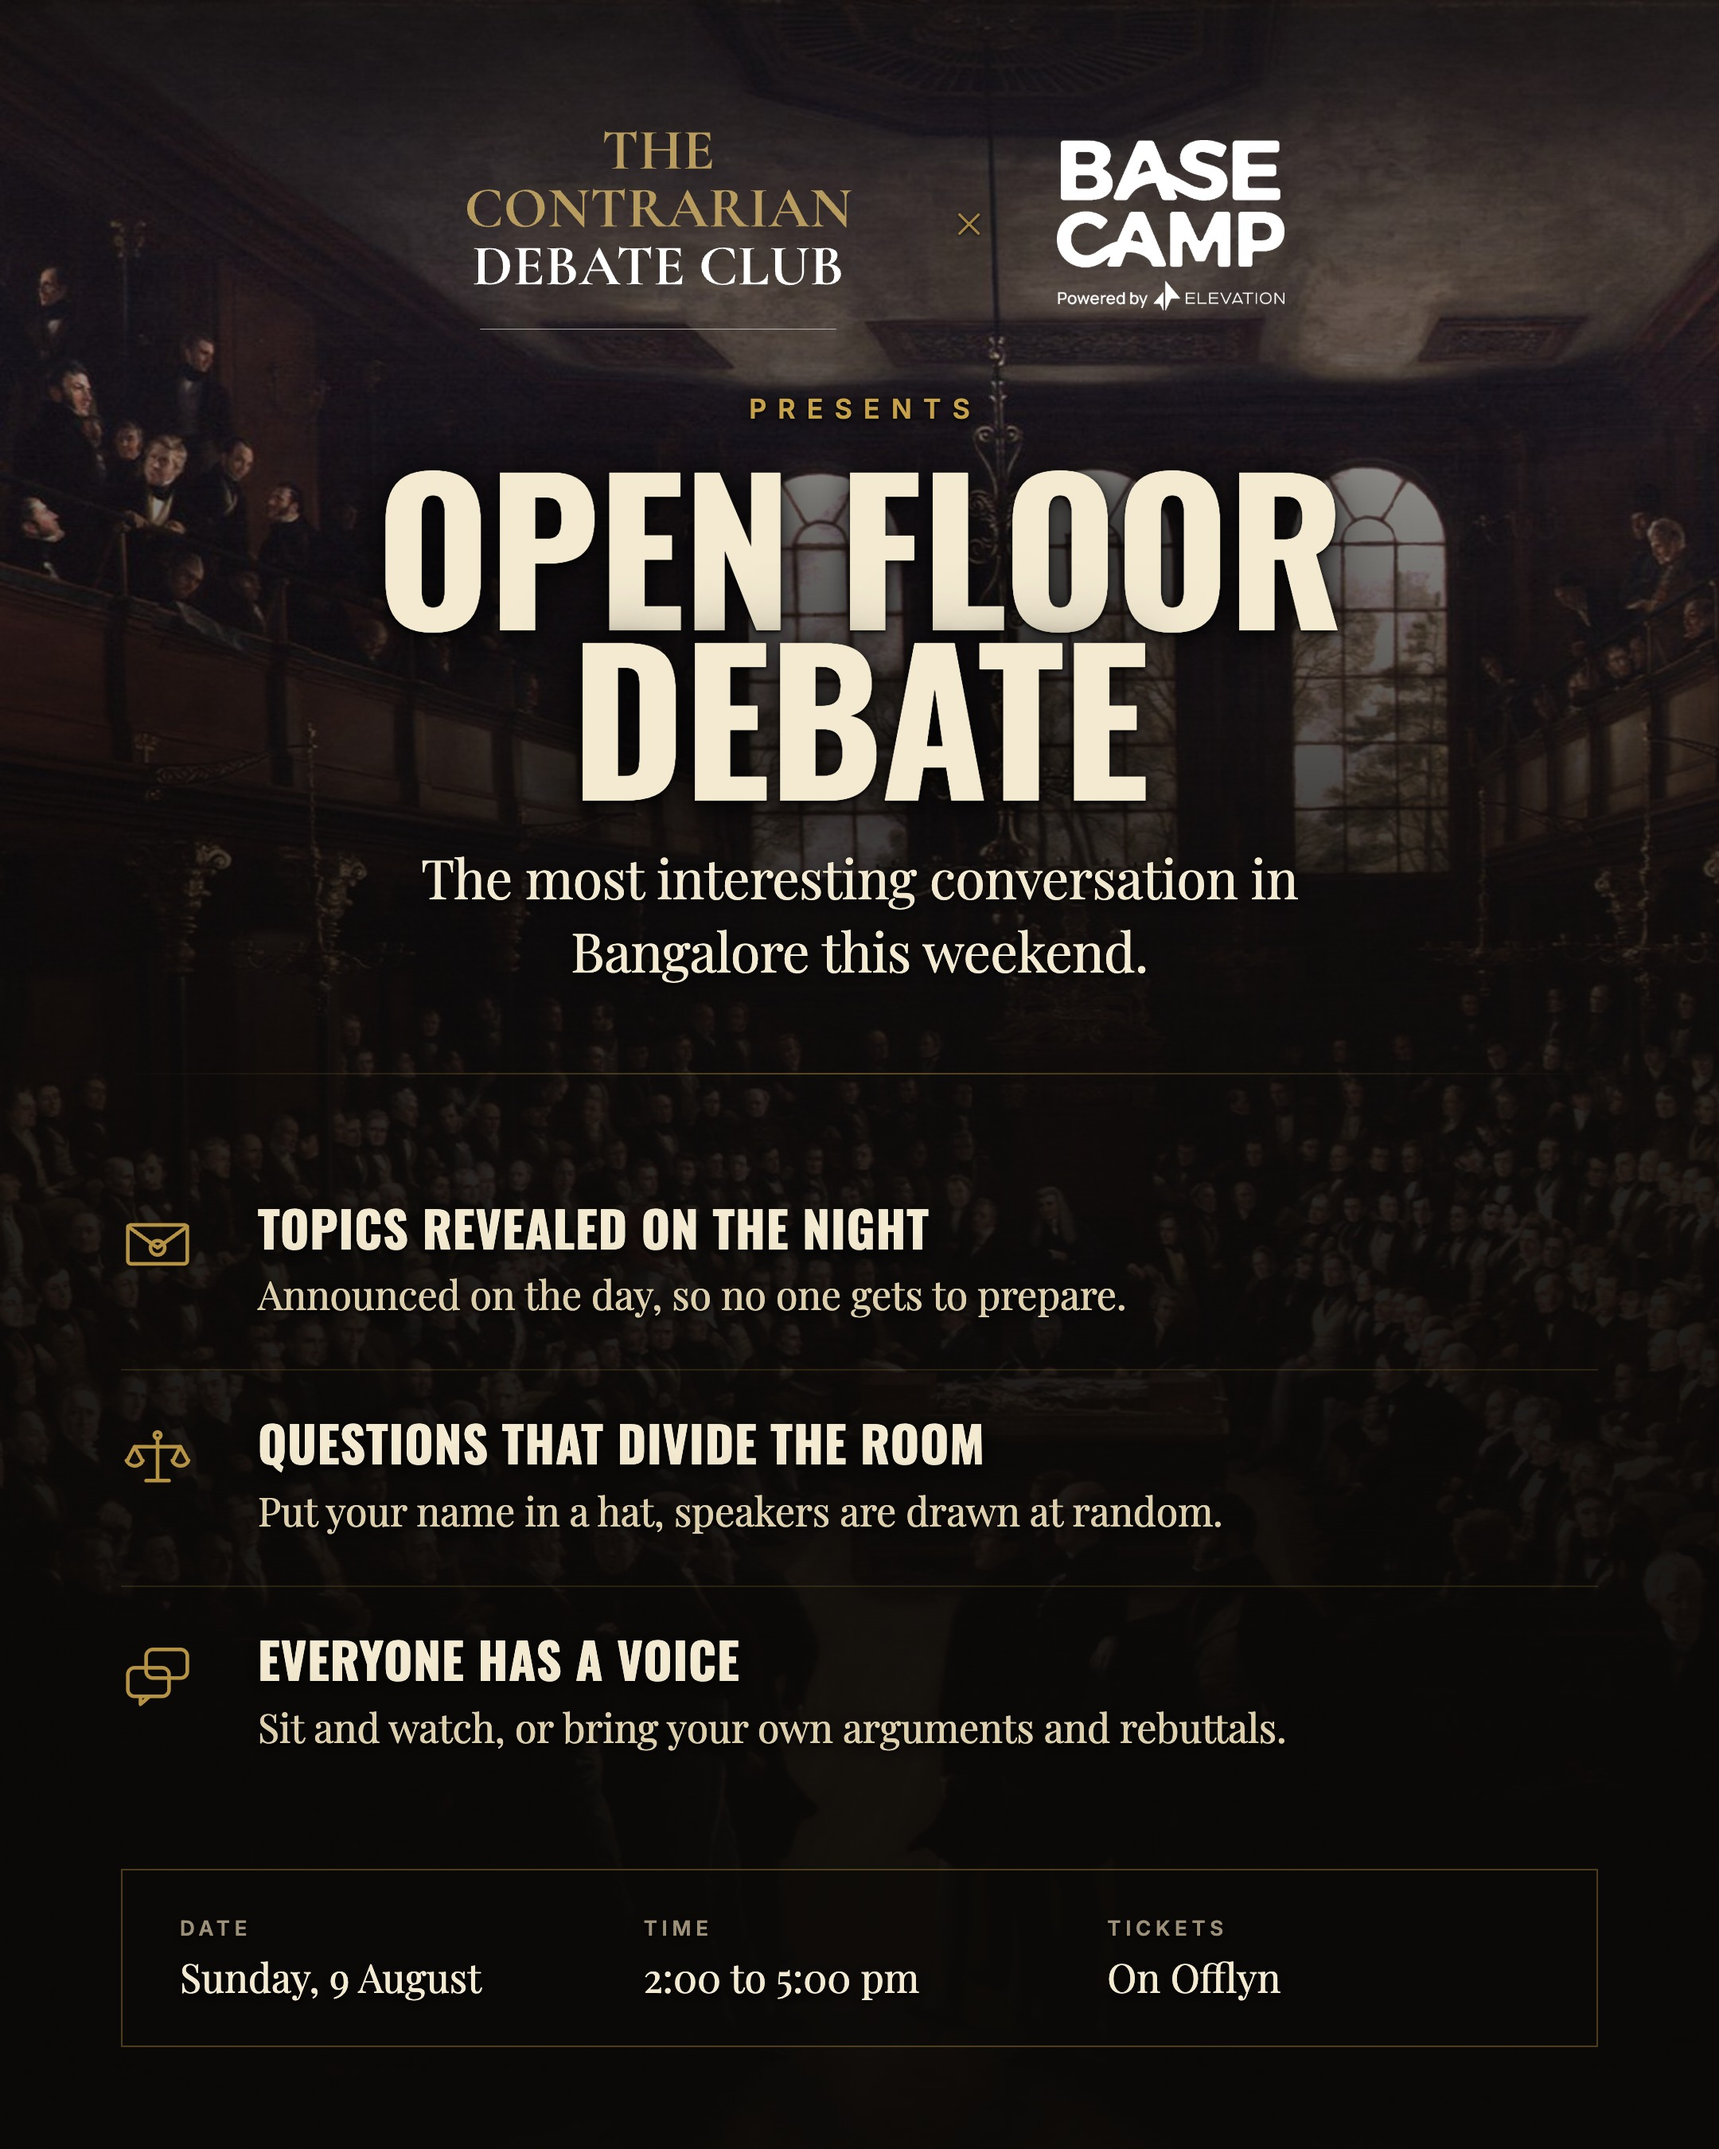
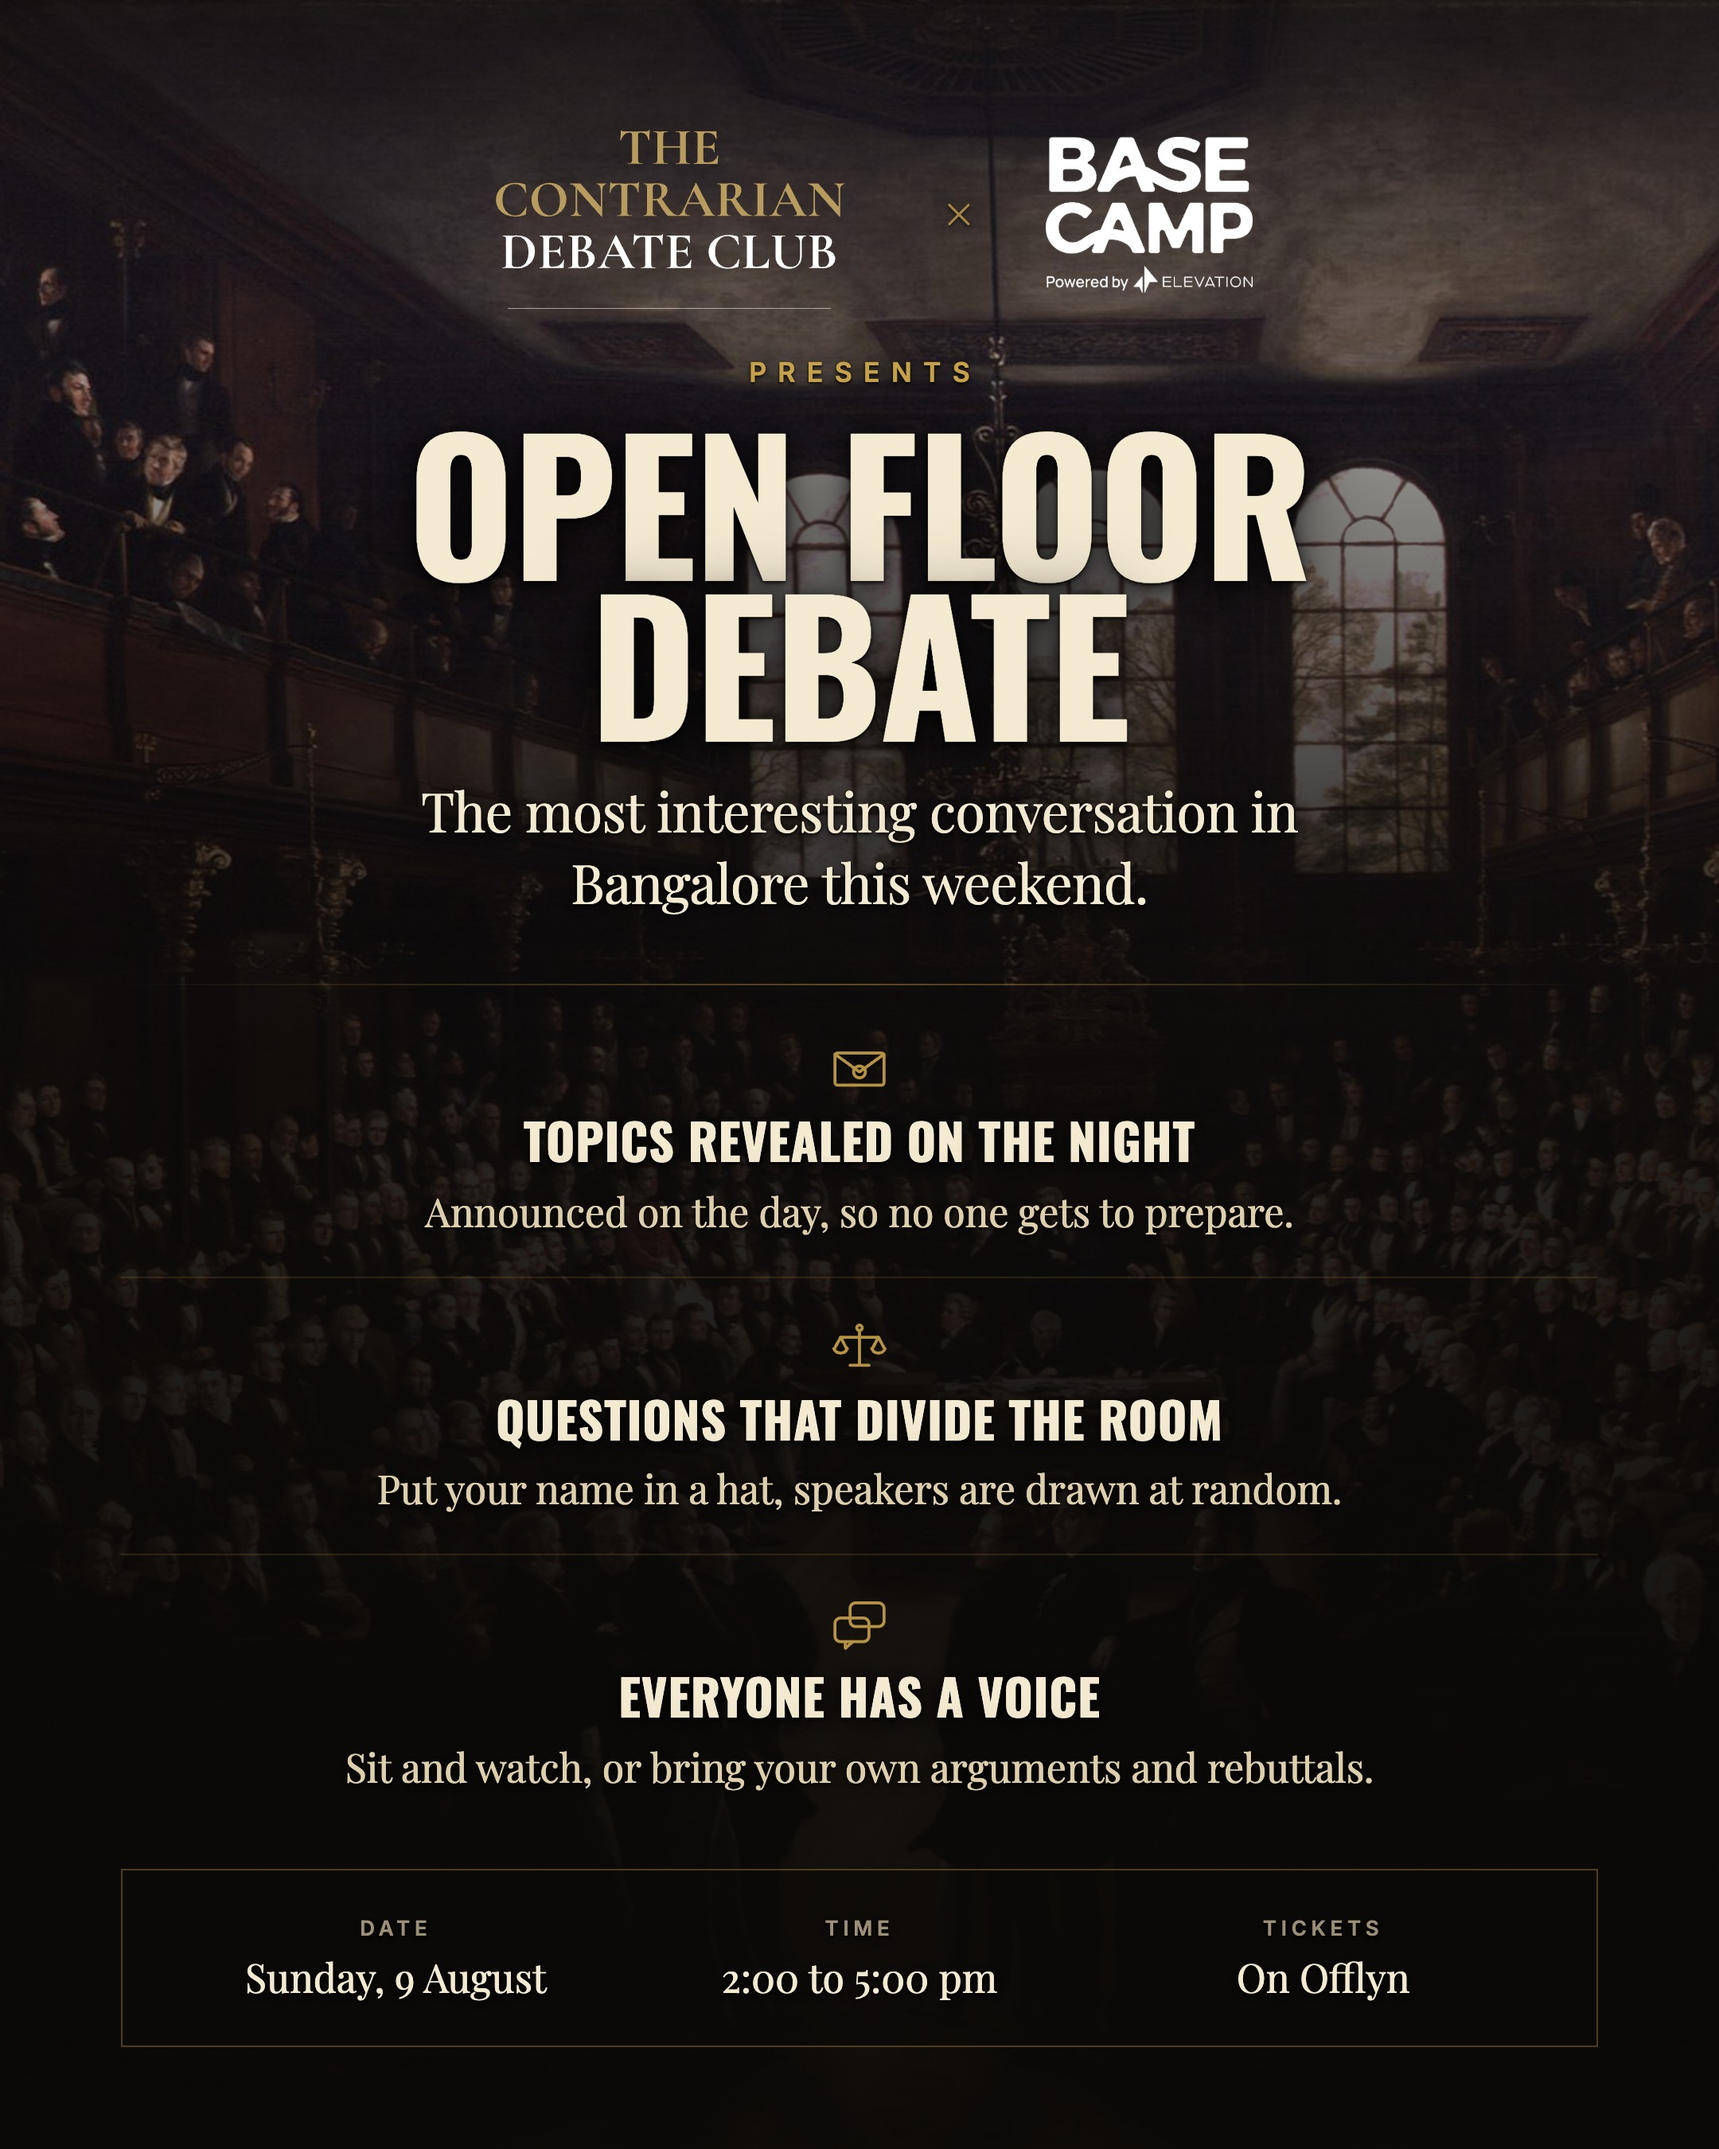
refactor(posters): centre the poster end to end
The composition broke alignment at the format block: everything above it was
centred and it was ranged left off an icon column. That switch was the thing
making the poster feel like two pieces stitched together.

Each format point is now a centred stack, mark above heading above line, and
the details plate centres its cells to match. One axis down the whole poster.

Centred stacks are taller than the left-ranged rows they replaced, so the
block overran the canvas and collided with the details plate. Bodies now hold
one line each, and the title, co-brand and rule above gave up the rest of the
space.

diff --git a/posters/works/2026-08-09-open-floor-debate/slides.tsx b/posters/works/2026-08-09-open-floor-debate/slides.tsx
@@ -623,7 +623,7 @@ export function Bring({ copy, points }: { copy: Copy; points: string[] }) {
 /** The collaboration lockup: both marks at equal optical weight, meeting at a
  *  gold cross. Sized off a shared height rather than a shared width, since one
  *  mark is wide and the other nearly square. */
-function CoBrand({ partner, height = 128 }: { partner: string; height?: number }) {
+function CoBrand({ partner, height = 116 }: { partner: string; height?: number }) {
   const PARTNER_RATIO = 935 / 701;
   return (
     <div style={{ display: "flex", alignItems: "center", justifyContent: "center", gap: 46 }}>
@@ -718,36 +718,41 @@ function Icon({ name, size = 46 }: { name: IconName; size?: number }) {
  *  already decided to care. */
 function Beat({ icon, label, body }: { icon: IconName; label: string; body: string }) {
   return (
-    <div style={{ display: "grid", gridTemplateColumns: "78px 1fr", gap: 8 }}>
-      <span style={{ paddingTop: 2 }}>
-        <Icon name={icon} />
+    <div
+      style={{
+        display: "flex",
+        flexDirection: "column",
+        alignItems: "center",
+        textAlign: "center",
+        gap: 11,
+      }}
+    >
+      <Icon name={icon} size={38} />
+      <span
+        style={{
+          fontFamily: "var(--cc-font-condensed)",
+          fontWeight: 700,
+          textTransform: "uppercase",
+          fontSize: 31,
+          letterSpacing: "0.015em",
+          lineHeight: 1.02,
+          color: "var(--cc-ivory)",
+        }}
+      >
+        {label}
       </span>
-      <div style={{ display: "flex", flexDirection: "column", gap: 9 }}>
-        <span
-          style={{
-            fontFamily: "var(--cc-font-condensed)",
-            fontWeight: 700,
-            textTransform: "uppercase",
-            fontSize: 31,
-            letterSpacing: "0.015em",
-            lineHeight: 1.02,
-            color: "var(--cc-ivory)",
-          }}
-        >
-          {label}
-        </span>
-        <span
-          style={{
-            fontFamily: "var(--cc-font-display)",
-            fontSize: 25,
-            lineHeight: 1.36,
-            letterSpacing: "-0.004em",
-            color: "var(--cc-parchment)",
-          }}
-        >
-          {body}
-        </span>
-      </div>
+      <span
+        style={{
+          fontFamily: "var(--cc-font-display)",
+          fontSize: 25,
+          lineHeight: 1.36,
+          letterSpacing: "-0.004em",
+          color: "var(--cc-parchment)",
+          maxWidth: "56ch",
+        }}
+      >
+        {body}
+      </span>
     </div>
   );
 }
@@ -782,7 +787,7 @@ export function Poster({
       >
         <CoBrand partner={partner} />
 
-        <div style={{ marginTop: 40 }}>
+        <div style={{ marginTop: 30 }}>
           <span
             className="kicker"
             style={{
@@ -801,7 +806,7 @@ export function Poster({
               fontFamily: "var(--cc-font-condensed)",
               fontWeight: 700,
               textTransform: "uppercase",
-              fontSize: 122,
+              fontSize: 114,
               lineHeight: 0.88,
               letterSpacing: "-0.008em",
               color: "var(--cc-ivory)",
@@ -825,7 +830,7 @@ export function Poster({
               lineHeight: 1.34,
               letterSpacing: "-0.008em",
               color: "var(--cc-ivory)",
-              margin: "28px auto 0",
+              margin: "22px auto 0",
               maxWidth: "29ch",
               textAlign: "center",
             }}
@@ -839,7 +844,7 @@ export function Poster({
             which is ranged left and meant to be scanned. Mixing the two
             alignments in one undivided column was what made the earlier cut
             feel unsettled. */}
-        <div style={{ marginTop: 46 }}>
+        <div style={{ marginTop: 32 }}>
           <hr className="rule" style={{ border: 0 }} />
         </div>
 
@@ -850,14 +855,14 @@ export function Poster({
             display: "flex",
             flexDirection: "column",
             justifyContent: "center",
-            gap: 30,
+            gap: 24,
           }}
         >
           {beats.map((b, i) => (
             <div
               key={i}
               style={{
-                paddingTop: i === 0 ? 0 : 30,
+                paddingTop: i === 0 ? 0 : 24,
                 borderTop: i === 0 ? "none" : "1px solid rgba(200,162,74,0.16)",
               }}
             >
@@ -869,6 +874,7 @@ export function Poster({
         {/* the details on a plate, so the foot reads as an invitation card */}
         <div
           style={{
+            marginTop: 22,
             padding: "28px 36px",
             border: "1px solid rgba(200,162,74,0.34)",
             background: "rgba(11,9,7,0.62)",
@@ -878,7 +884,16 @@ export function Poster({
           }}
         >
           {details.map((d, i) => (
-            <div key={i} style={{ display: "flex", flexDirection: "column", gap: 8 }}>
+            <div
+              key={i}
+              style={{
+                display: "flex",
+                flexDirection: "column",
+                alignItems: "center",
+                textAlign: "center",
+                gap: 8,
+              }}
+            >
               <span className="label" style={{ fontSize: 13, letterSpacing: "0.22em" }}>
                 {d.label}
               </span>
